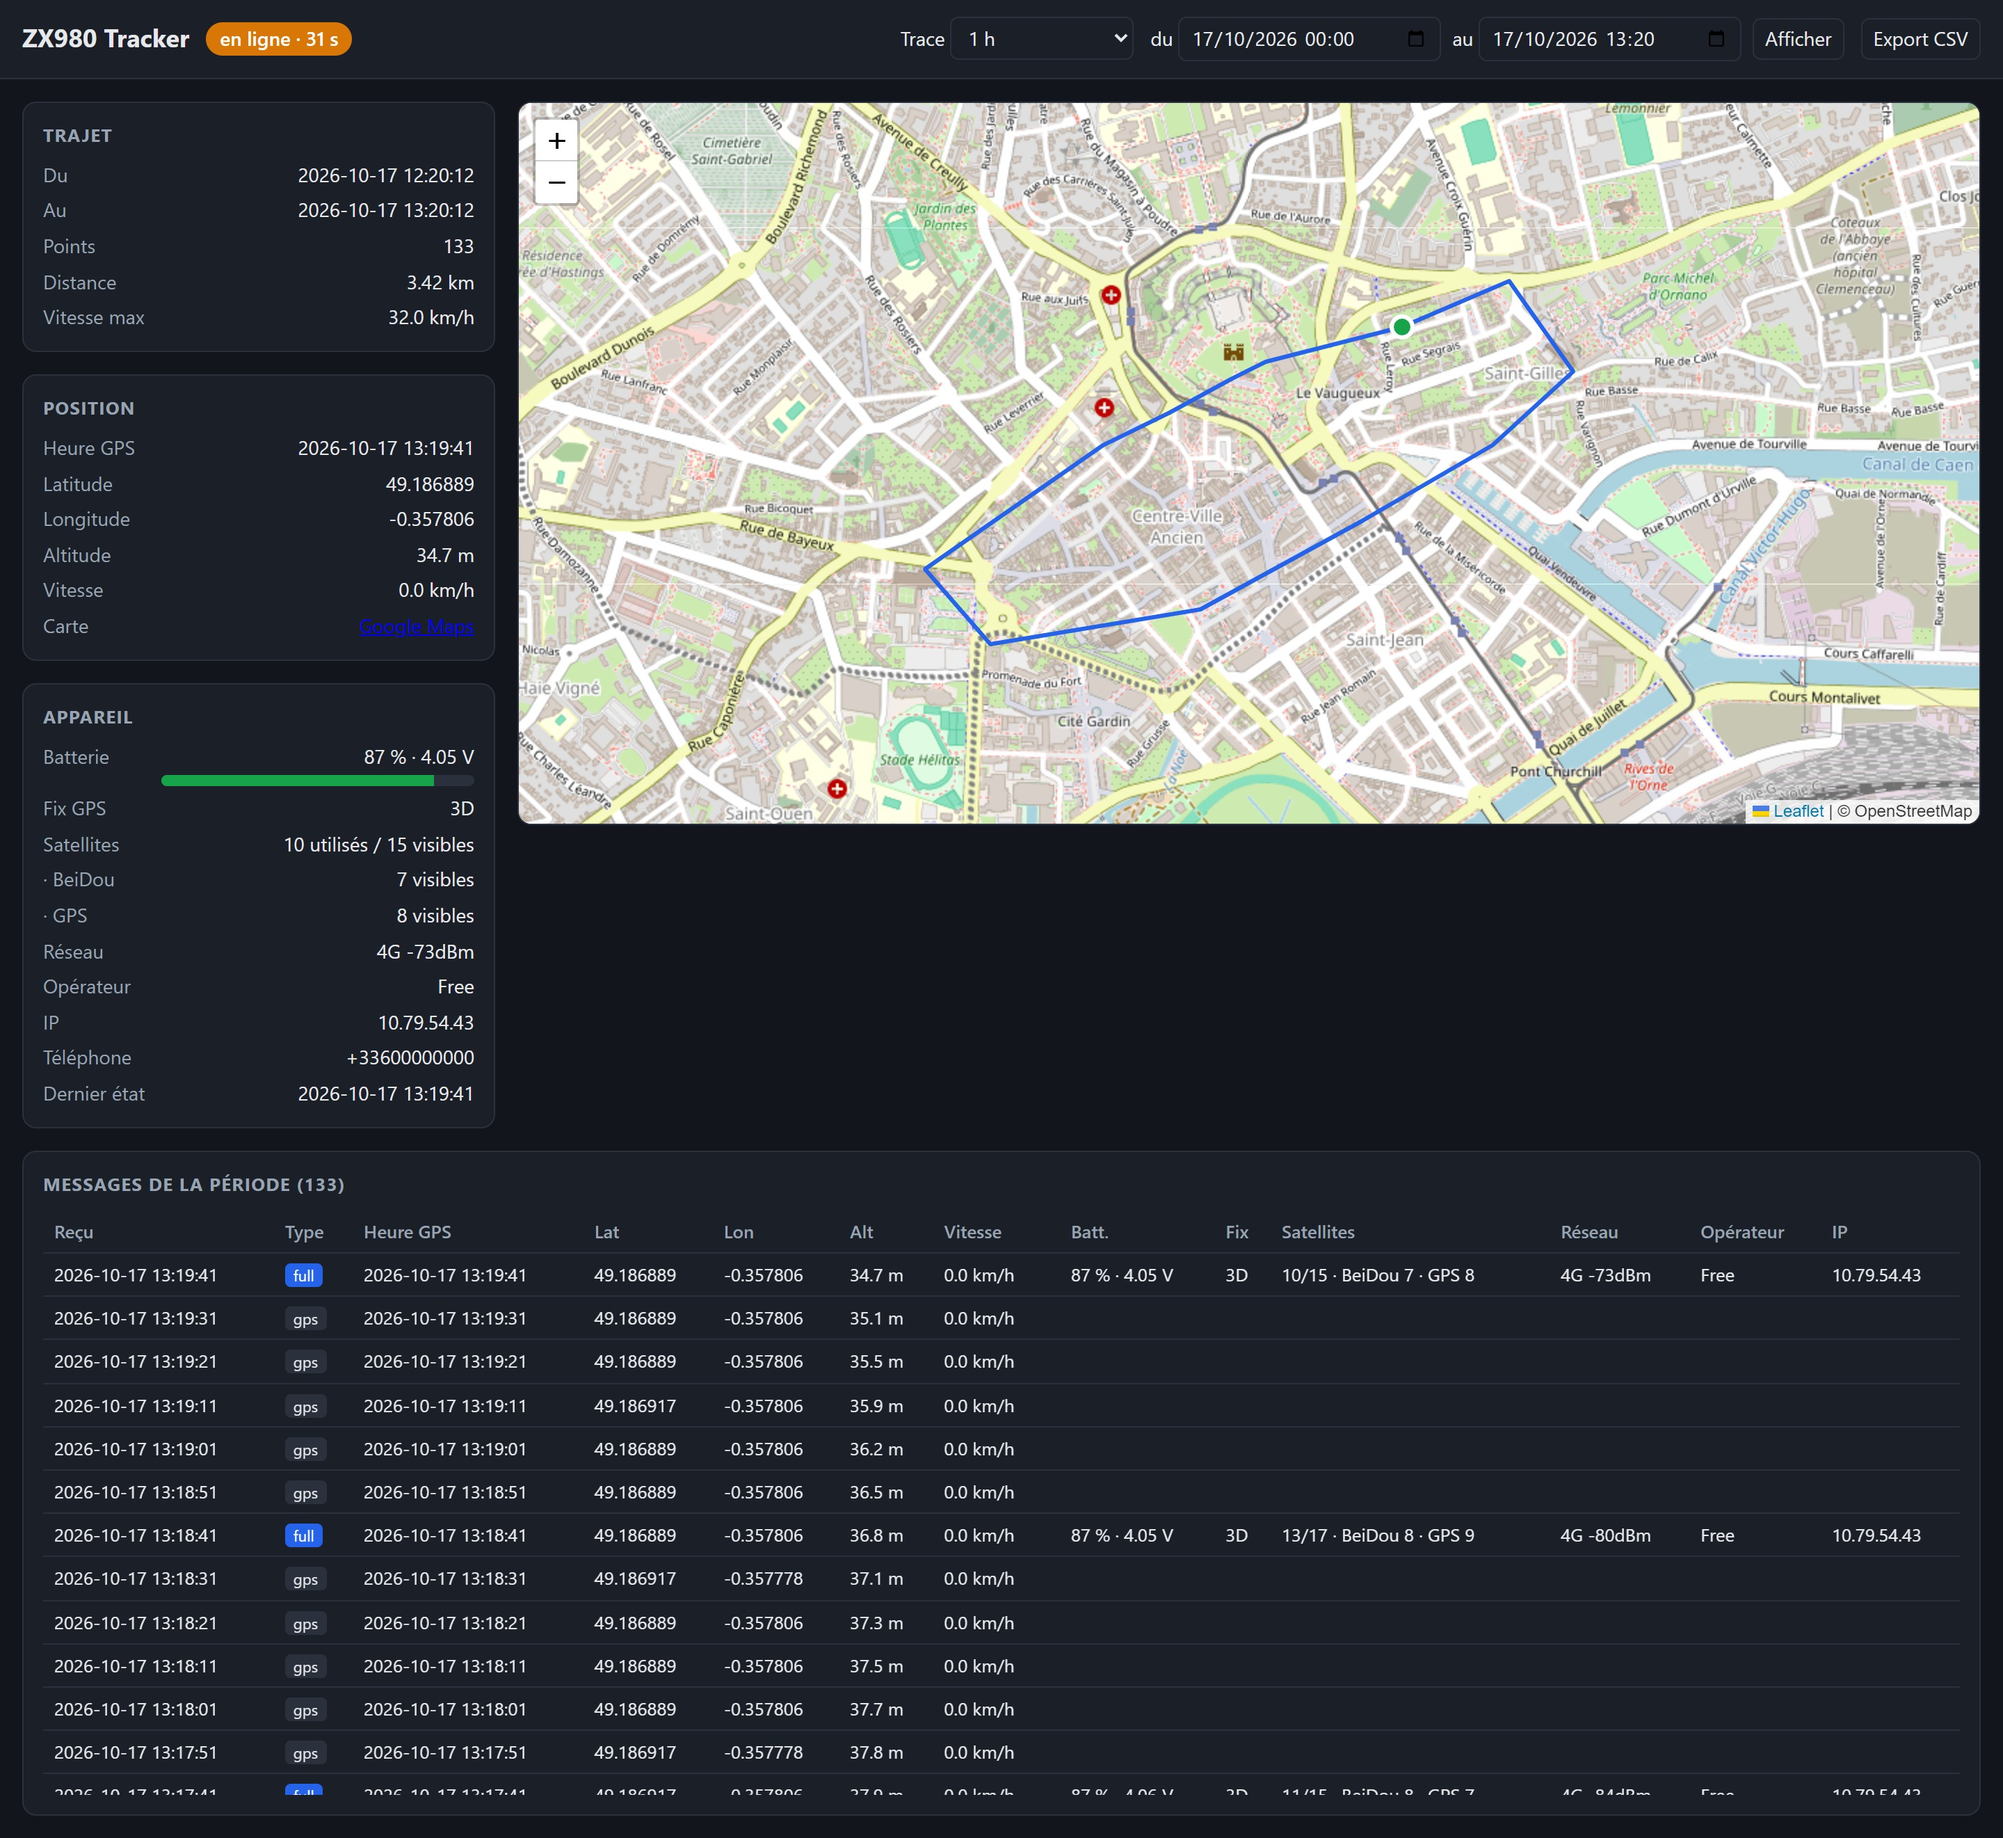
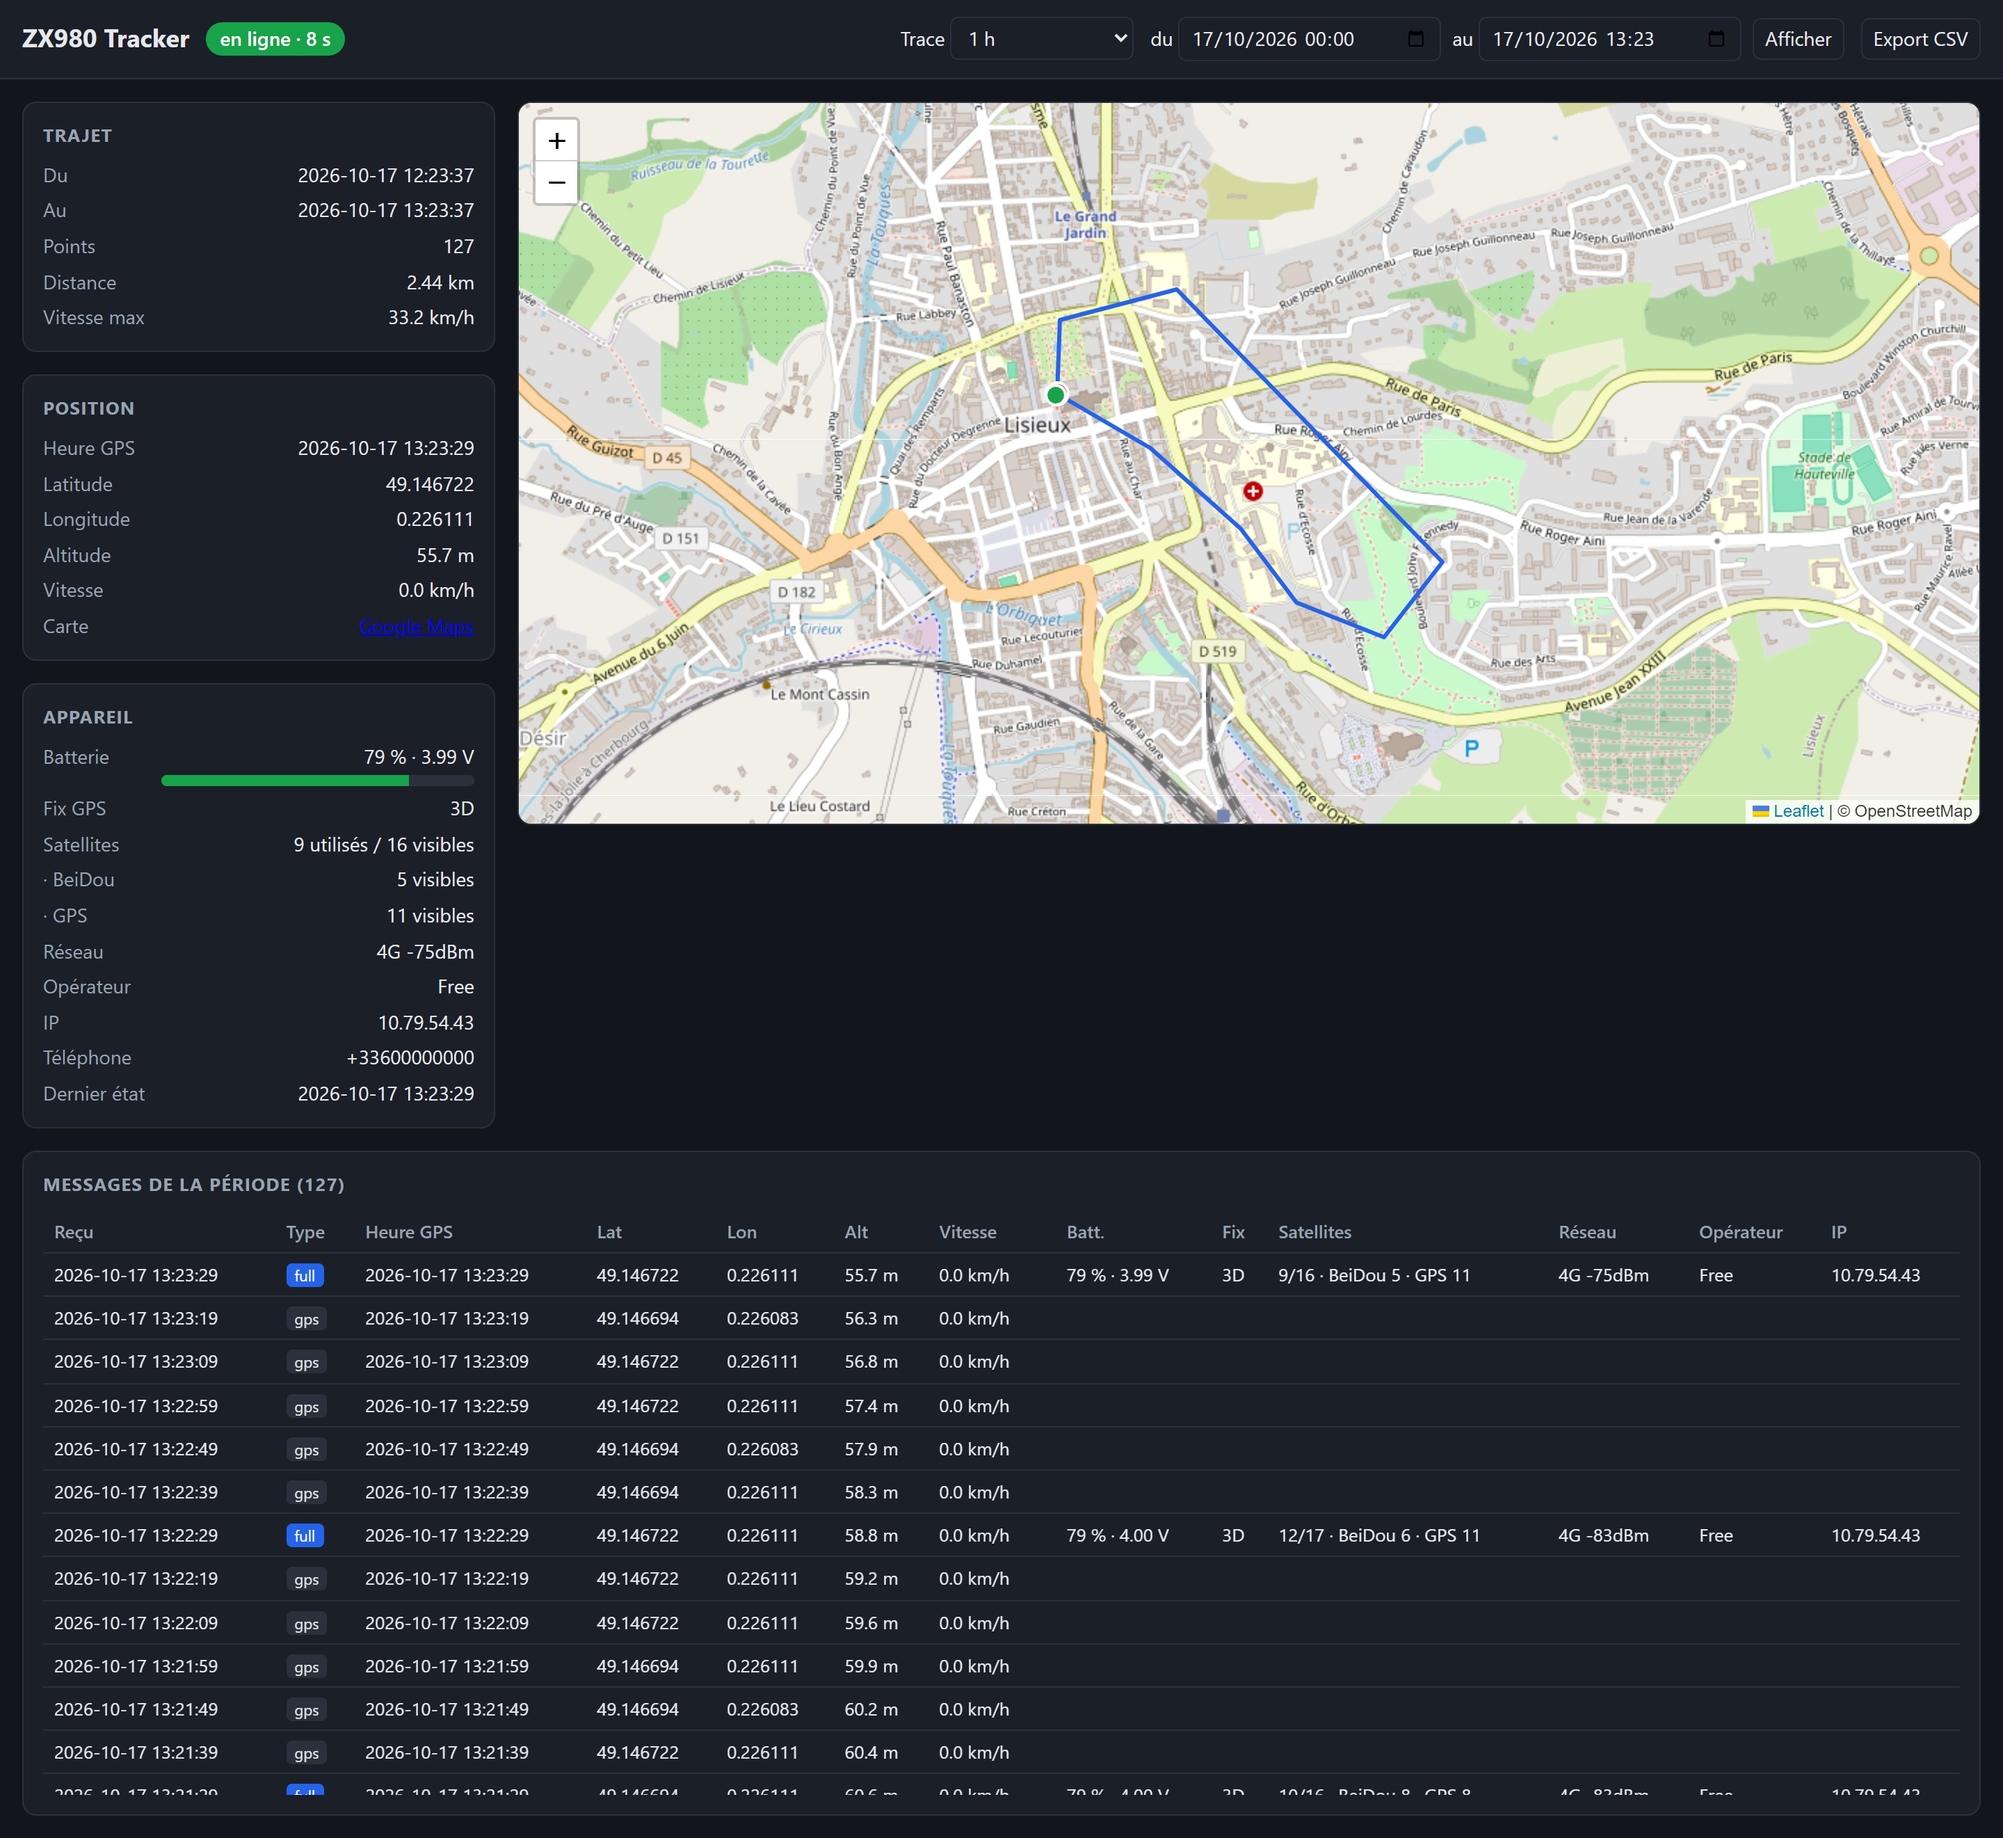
ZX980_Server : capture du tableau de bord avec un trajet à Lisieux
Nouvelles données de démo : boucle de 2,4 km autour du centre de Lisieux
(cathédrale, gare, basilique). Même résolution (2880 × 2642), pastille
« en ligne » verte. Légende du README mise à jour.

diff --git a/ZX980_Server/README.md b/ZX980_Server/README.md
@@ -6,7 +6,7 @@ Standard Python 3 only (no uvicorn, fastapi or nginx).
 
 ![ZX980 dashboard](Images/dashboard.jpg)
 
-*Dashboard with demo data: a 3.4 km loop in central Caen, last hour, dark theme. Trip, position and device cards on the left, track on the map (green dot = start), messages of the period below.*
+*Dashboard with demo data: a 2.4 km loop around the centre of Lisieux, last hour, dark theme. Trip, position and device cards on the left, track on the map (green dot = start), messages of the period below.*
 
 ## How it works
 
